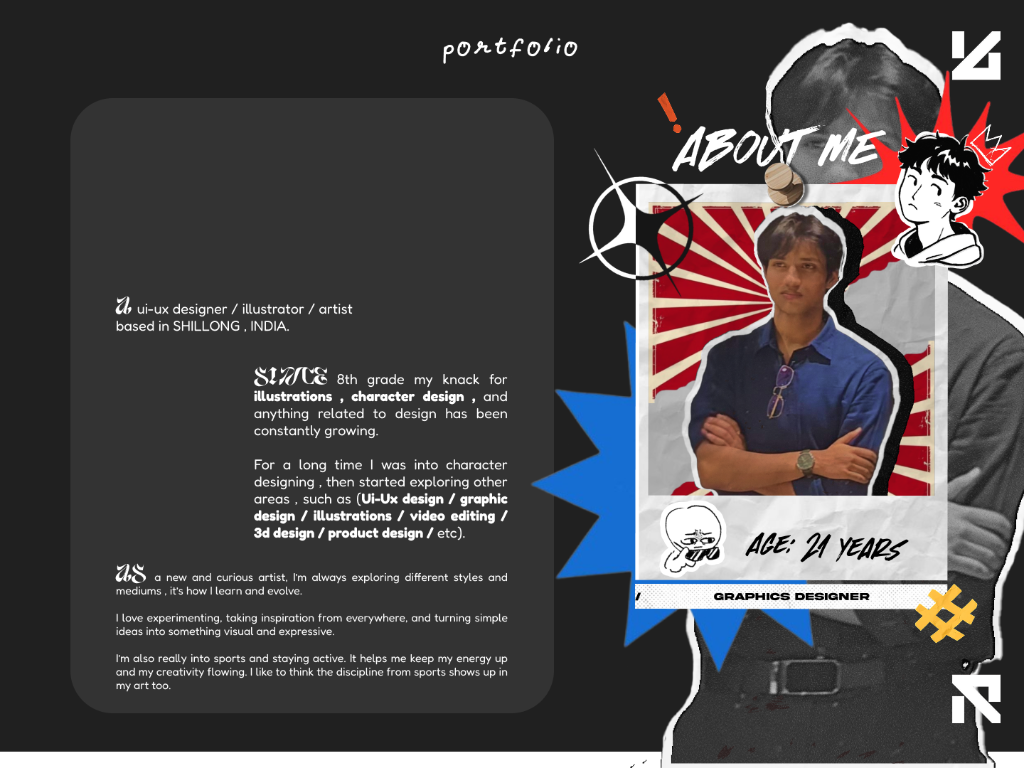
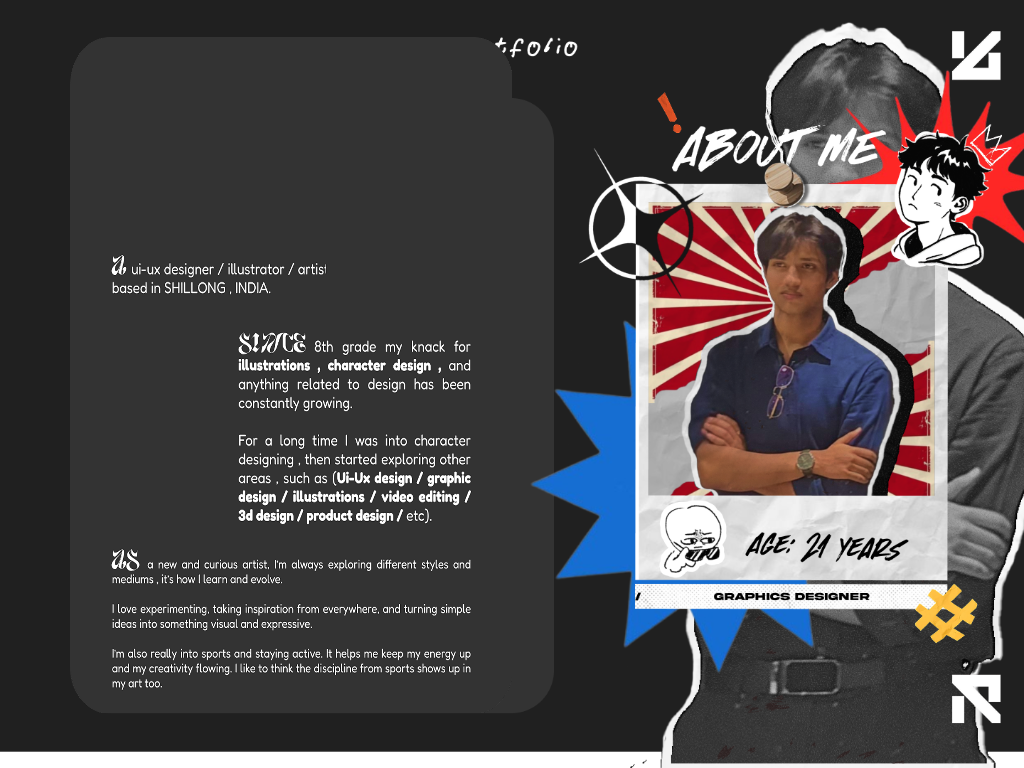
Update About page elements with high-res Left Card, Red Starburst, and Crown Boy while preserving all animations

Changed region(s): [[0.0938, 0.3438, 0.5, 0.9062], [0.4375, 0.0312, 0.4688, 0.0938]]

diff --git a/src/components/AnimatedCollage.jsx b/src/components/AnimatedCollage.jsx
@@ -2,6 +2,8 @@ import React, { useState, useRef } from 'react'
 import aboutRightCollageClean from '../assets/about/about_right_collage_clean.png'
 import collagePolaroid from '../assets/about/collage_polaroid_clean.png'
 import collageHashtag from '../assets/about/collage_hashtag.png'
+import redStarburst from '../assets/about/red_starburst.png'
+import charCrownBoy from '../assets/about/char_crown_boy.png'
 
 /**
  * AnimatedCollage
@@ -72,6 +74,51 @@ export default function AnimatedCollage({ className = '', standalone = false }) 
           className="absolute inset-0 w-full h-full object-contain pointer-events-none select-none z-0"
         />
       )}
+
+      {/* ================= HIGH-RES RED STARBURST ================= */}
+      <div
+        className="absolute z-[5] pointer-events-none select-none transition-transform duration-300 ease-out"
+        style={{
+          left: '37.10%',
+          top: '1.76%',
+          width: '77.98%',
+          height: '62.47%',
+          transform: tilt.isHovered
+            ? `translate3d(${-tilt.y * 0.35}px, ${tilt.x * 0.35}px, 0) scale(1.02)`
+            : undefined,
+        }}
+        aria-hidden="true"
+      >
+        <img
+          src={redStarburst}
+          alt=""
+          className="w-full h-full object-contain pointer-events-none select-none drop-shadow-[0_8px_24px_rgba(186,31,31,0.35)]"
+        />
+      </div>
+
+      {/* ================= HIGH-RES CROWN BOY CHARACTER ================= */}
+      <div
+        className="absolute z-[10] group/crownboy cursor-pointer transition-all duration-300 ease-out hover:scale-105 active:scale-95"
+        style={{
+          left: '53.17%',
+          top: '-1.08%',
+          width: '60.51%',
+          height: '54.06%',
+          transform: tilt.isHovered
+            ? `translate3d(${-tilt.y * 0.65}px, ${tilt.x * 0.65}px, 0)`
+            : undefined,
+        }}
+        title="Om character doodle with crown"
+        tabIndex={0}
+        role="img"
+        aria-label="Illustration of Om with crown doodle"
+      >
+        <img
+          src={charCrownBoy}
+          alt="Illustration of Om with crown doodle"
+          className="w-full h-full object-contain pointer-events-none select-none drop-shadow-[0_8px_20px_rgba(0,0,0,0.6)] group-hover/crownboy:drop-shadow-[0_12px_28px_rgba(0,0,0,0.8)] transition-all duration-300"
+        />
+      </div>
 
       {/* ================= ANIMATED ROLES TAPE TICKER ================= */}
       <div

diff --git a/src/components/AboutCharacters.jsx b/src/components/AboutCharacters.jsx
@@ -17,44 +17,44 @@ export default function AboutCharacters({ isMobile = false }) {
   // Desktop coordinate mappings (1024 x 768 frame)
   const desktopCoords = {
     hello: {
-      left: '11.04%',
-      top: '16.67%',
-      width: '11.91%',
-      height: '17.32%',
+      left: '10.65%',
+      top: '9.12%',
+      width: '10.84%',
+      height: '18.91%',
     },
     thinking: {
-      left: '35.94%',
-      top: '19.27%',
-      width: '14.65%',
-      height: '24.09%',
+      left: '31.05%',
+      top: '12.30%',
+      width: '15.68%',
+      height: '25.70%',
     },
     pointing: {
-      left: '11.13%',
-      top: '48.83%',
-      width: '12.70%',
-      height: '18.88%',
+      left: '11.03%',
+      top: '43.24%',
+      width: '12.99%',
+      height: '23.47%',
     },
   }
 
-  // Mobile coordinate mappings (480 x 590 left card)
+  // Mobile coordinate mappings (804 x 1024 left card)
   const mobileCoords = {
     hello: {
-      left: '8.75%',
-      top: '0.51%',
-      width: '25.42%',
-      height: '22.54%',
+      left: '8.83%',
+      top: '4.88%',
+      width: '25.12%',
+      height: '21.48%',
     },
     thinking: {
-      left: '61.88%',
-      top: '3.90%',
-      width: '31.25%',
-      height: '31.36%',
+      left: '56.09%',
+      top: '8.50%',
+      width: '36.32%',
+      height: '29.20%',
     },
     pointing: {
-      left: '8.96%',
-      top: '42.37%',
-      width: '27.08%',
-      height: '24.58%',
+      left: '9.70%',
+      top: '43.65%',
+      width: '30.10%',
+      height: '26.66%',
     },
   }
 
